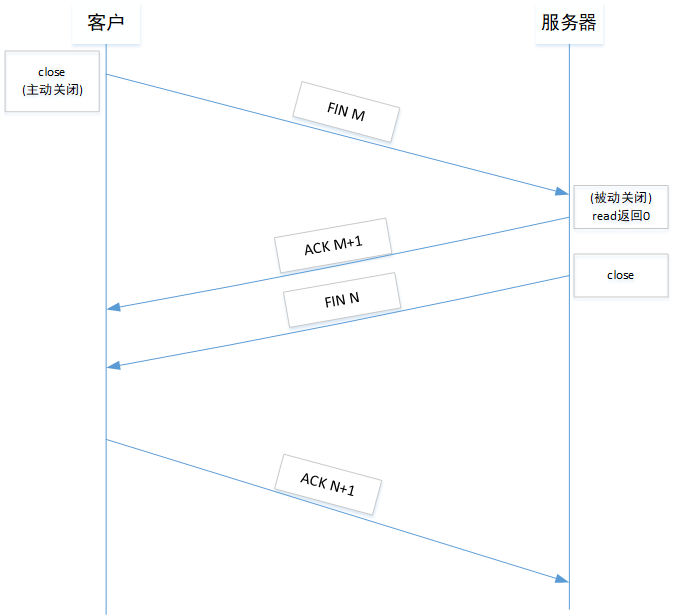
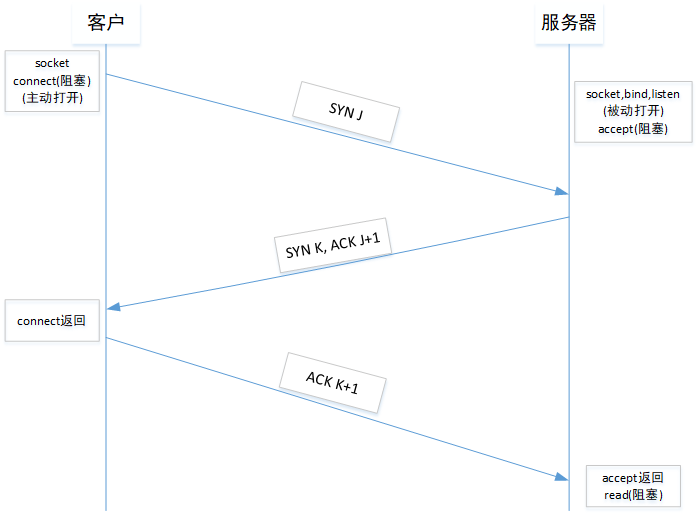
GITBOOK-7: No subject

diff --git a/socket编程/tcp.md b/socket编程/tcp.md
@@ -8,7 +8,7 @@
    2. 服务器必须确认（ACK）客服端的SYN，同时自己也发送一个SYN，其中ACK=SYN+1，告诉客户端服务器将在待建立的连接中发送的数据的初始序列号。
    3. 客户端必须发送确认（ACK），其中ACK=SYN+1。
 
-<figure><img src=".gitbook/assets/image.png" alt=""><figcaption><p>TCP 三次握手</p></figcaption></figure>
+<figure><img src=".gitbook/assets/image (1).png" alt=""><figcaption><p>TCP 三次握手</p></figcaption></figure>
 
 > 什么是ACK？ACK中的确认号是发送ACK的一端所期待的下一个序列号。因为SYN已经占据一个字节的空间，所以每一个SYN对应的ACK应该是SYN+1。
 >
@@ -21,7 +21,7 @@
 3. 一段时间之后（这段时间可长可短，应用进程用来处理FIN之前的数据），接收到文件结束符的应用进程将会调用close关闭套接字。这导致TCP会发送一个FIN。
 4. 接受这个FIN的原发送端会确认这个FIN。
 
-<figure><img src=".gitbook/assets/image (1).png" alt=""><figcaption><p>TCP四次挥手</p></figcaption></figure>
+<figure><img src=".gitbook/assets/image (1) (1).png" alt=""><figcaption><p>TCP四次挥手</p></figcaption></figure>
 
 > 大部分情况下，被动关闭方会将ACK和SYN一起发送。
 

diff --git a/socket编程/README.md b/socket编程/README.md
@@ -24,7 +24,16 @@
 * **效率低下：** 如果使用 for 循环来等待信号，处理器会一直处于忙等待状态，浪费大量的 CPU 资源。
 * **实时性差：** for 循环内部的某段程序执行时间是不确定的，可能会导致信号接收的延迟，影响系统的实时性。
 
+但是应用服务器离不开主（死）循环。
+
 ## 猜测：IO模型中，一定有...
 
-1.
+<figure><img src=".gitbook/assets/image.png" alt=""><figcaption></figcaption></figure>
 
+所以能够提升效率的地方在哪儿呢？
+
+减少“有数据了吗”，这个问询的复杂程度（指令的执行次数）。为了减少问询的复杂程序，逻辑电路应该多干点活，毕竟硬件层面的速度比软件的速度快得多。
+
+逻辑电路多干点什么活呢？
+
+逻辑电路应该把接收到的数据放在一个应用进程（我们自己编写的服务器）触手可及的地方。也就是内核和用户共享的内存区。
